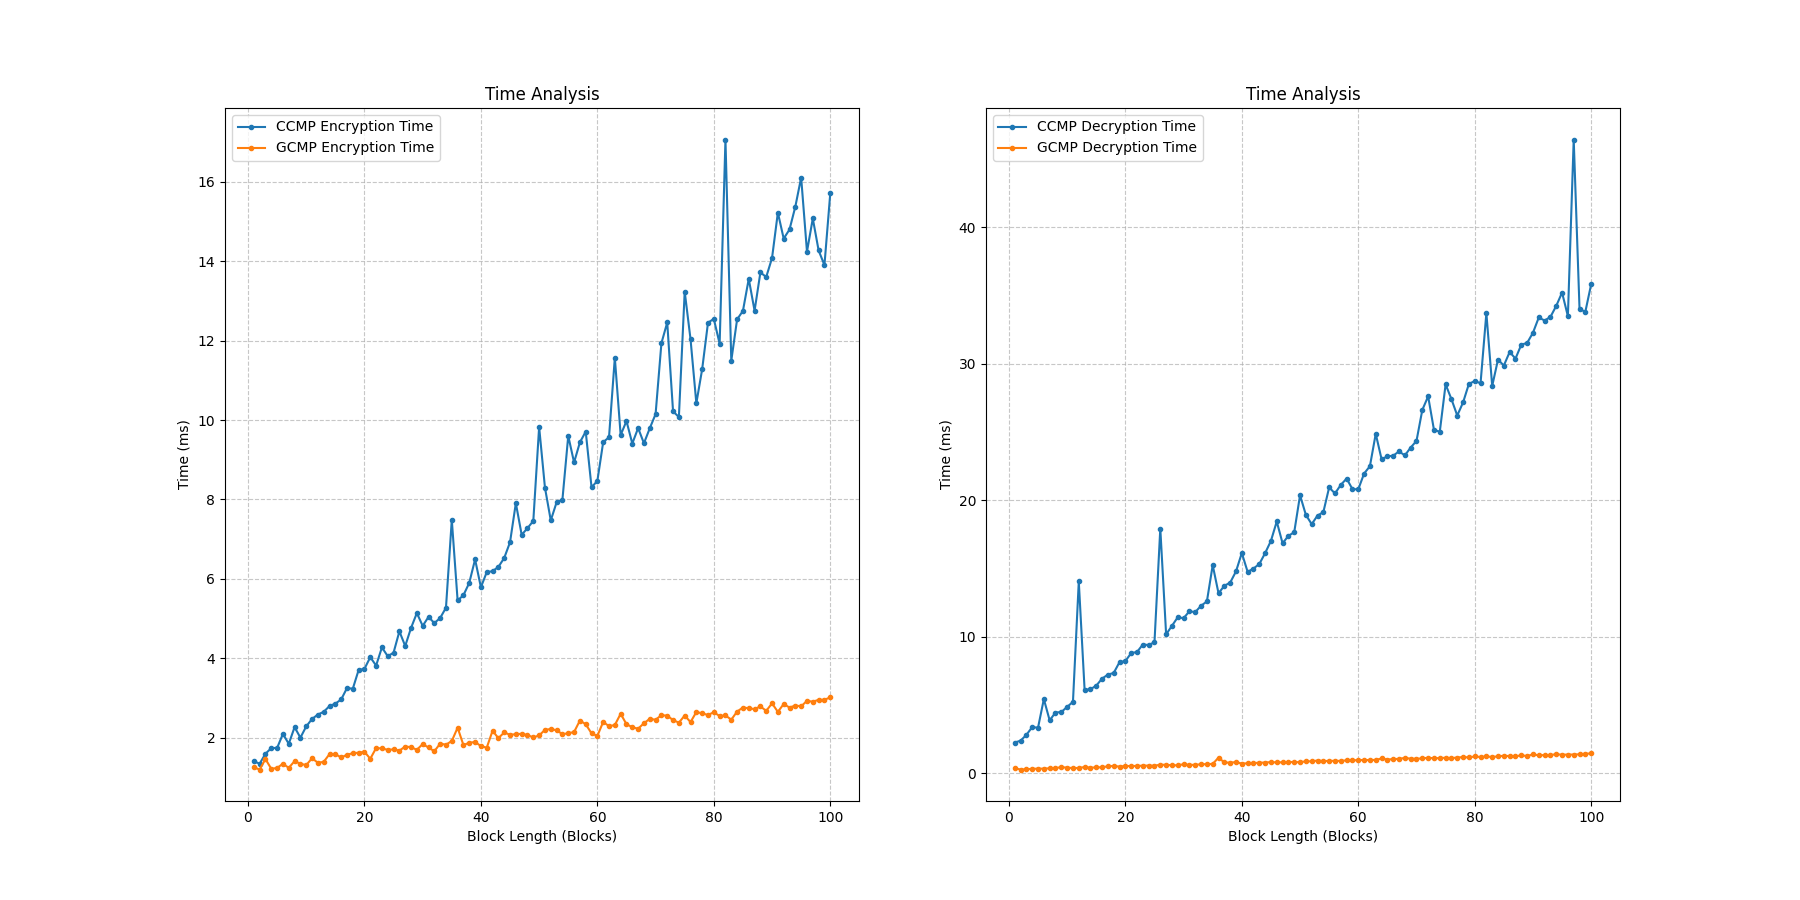
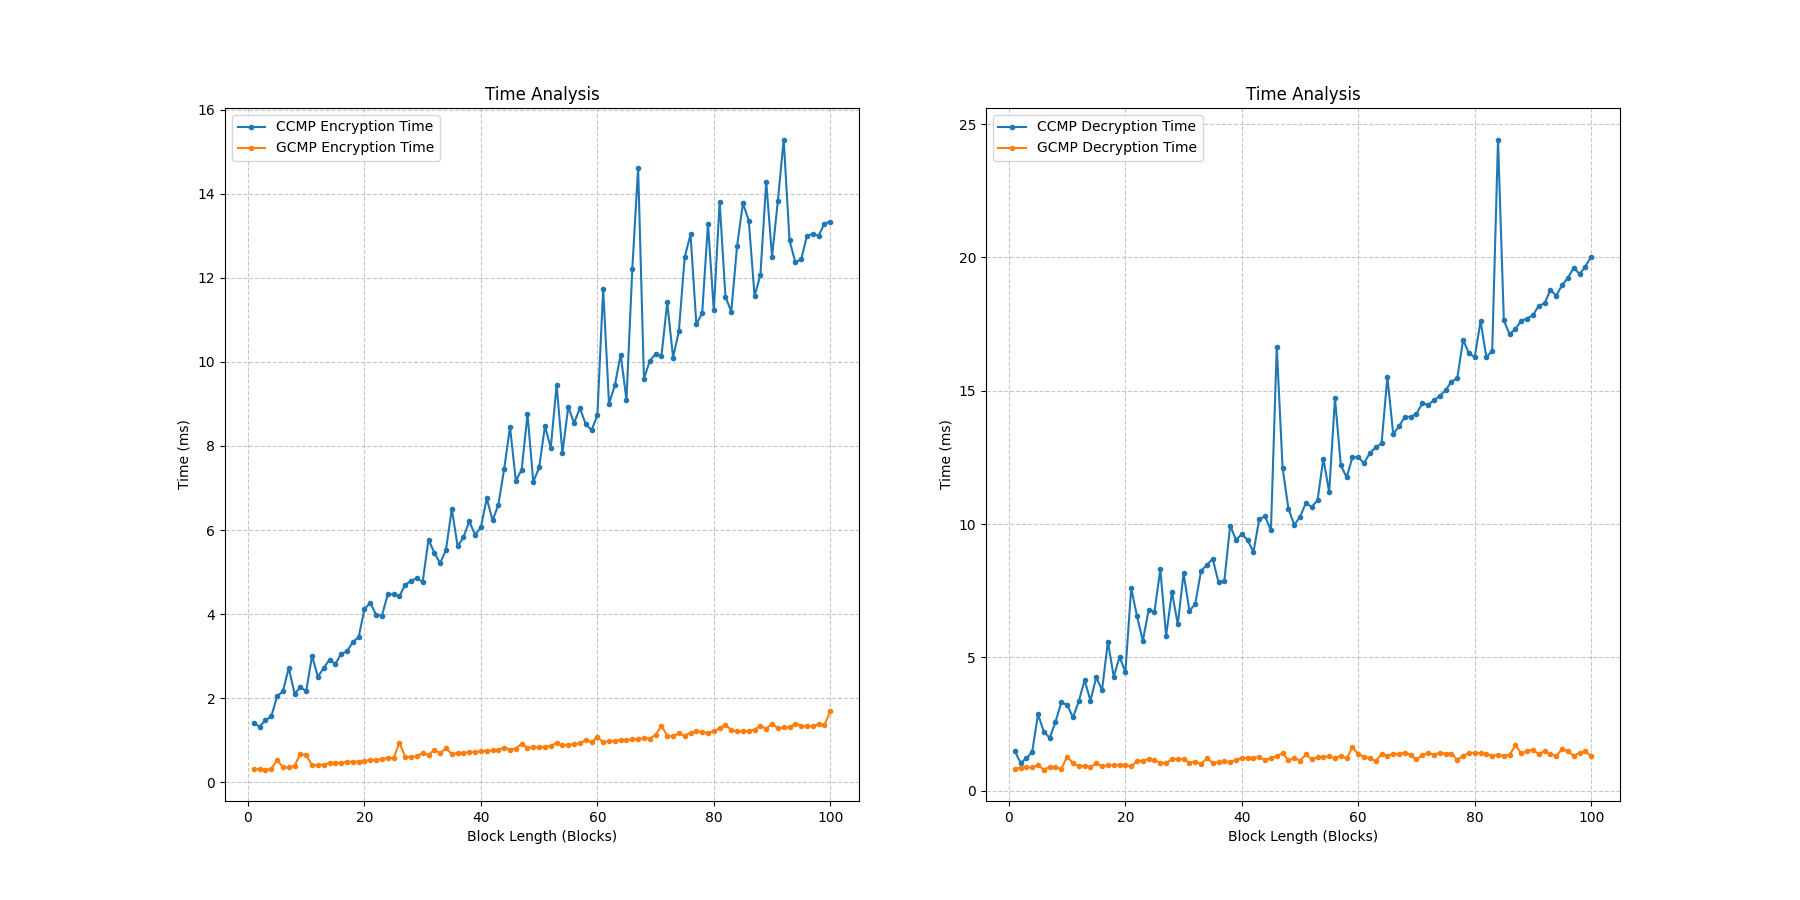
edited code profiler

Changed region(s): [[0.1244, 0.1867, 0.4667, 0.8711], [0.56, 0.2178, 0.9022, 0.8711]]

diff --git a/main.py b/main.py
@@ -20,7 +20,8 @@ class LinkMode:
         f0 = open('output.log','w')
 
     def __init__(self, protocol, blocks):
-        self.pr = CodeAnalysis.Profile()
+        self.penc = CodeAnalysis.Profile()
+        self.pdec = CodeAnalysis.Profile()
         self.protocol = protocol
         self.frame_header = bytes(open("frame_header.txt", "r").read(), 'utf-8')
         self.plaintext = bytes(open("msg1.txt", "r").read(int(blocks)*16), 'utf-8')
@@ -44,13 +45,13 @@ class LinkMode:
                 self.ciphertext, self.smic = pyAES.AES(self.key, self.ivs).encrypt_ccmp(self.frame_header, self.plaintext)
             elif self.protocol == "gcmp":
                 self.ciphertext, self.smic = pyAES.AES(self.key, self.ivs).encrypt_gcmp(self.frame_header, self.plaintext)
-        self.pr.enable()
+        self.penc.enable()
         protocal_encrypt()
-        self.pr.disable()
+        self.penc.disable()
         self.entropy_ct = CodeAnalysis.entropy(self.ciphertext)
         self.entropy_mic = CodeAnalysis.entropy(self.smic)
-        self.encryption_time = CodeAnalysis.get_exectime(self.pr)
-        self.cpuE = CodeAnalysis.get_cpu(self.pr)
+        self.encryption_time = CodeAnalysis.get_exectime(self.penc)
+        self.cpuE = CodeAnalysis.get_cpu(self.penc)
         self.ramE = CodeAnalysis.get_ram(protocal_encrypt)
         # Console logging
         print(f"Cipher text: {str(self.ciphertext)}", file=self.f0)
@@ -68,11 +69,11 @@ class LinkMode:
                 self.plaintext, self.rmic = pyAES.AES(self.key, self.ivs).decrypt_ccmp(self.frame_header, self.ciphertext)
             elif self.protocol == "gcmp":
                 self.plaintext, self.rmic = pyAES.AES(self.key, self.ivs).decrypt_gcmp(self.frame_header, self.ciphertext)      
-        self.pr.enable()
+        self.pdec.enable()
         protocal_decrypt()
-        self.pr.disable()
-        self.decryption_time = CodeAnalysis.get_exectime(self.pr)
-        self.cpuD = CodeAnalysis.get_cpu(self.pr)
+        self.pdec.disable()
+        self.decryption_time = CodeAnalysis.get_exectime(self.pdec)
+        self.cpuD = CodeAnalysis.get_cpu(self.pdec)
         self.ramD = CodeAnalysis.get_ram(protocal_decrypt)
         # Console logging
         if self.rmic == self.smic:
@@ -139,7 +140,7 @@ def main():
             gcmp = LinkMode(protocol, i+1)
             gcmp.encrypt()
             gcmp.decrypt()
-            f1.write(f"{gcmp.entropy_mic},{gcmp.decryption_time},{gcmp.ramE},{gcmp.cpuE},{gcmp.encryption_time},{gcmp.ramD},{gcmp.cpuD}\n")
+            f1.write(f"{gcmp.entropy_mic},{gcmp.encryption_time},{gcmp.ramE},{gcmp.cpuE},{gcmp.decryption_time},{gcmp.ramD},{gcmp.cpuD}\n")
             del gcmp
         print("")
         print("[#] COMPILATION SUCCESSFUL: Check Results.csv and Results.log files for the output.")
